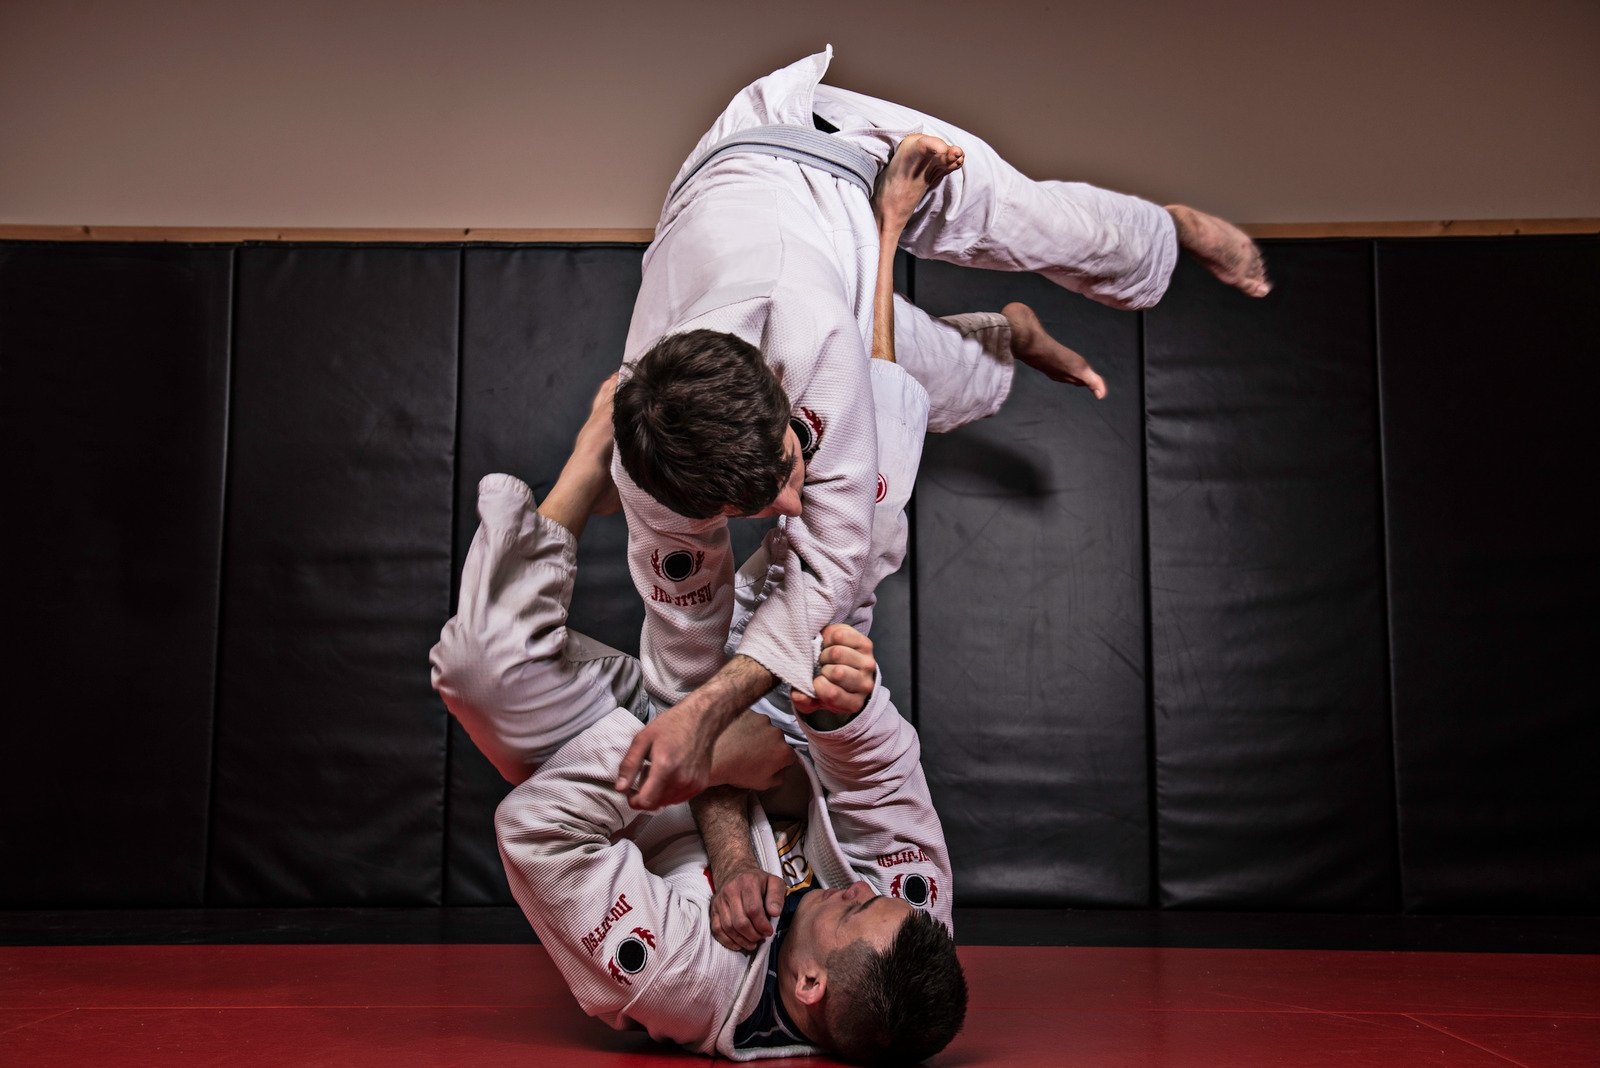
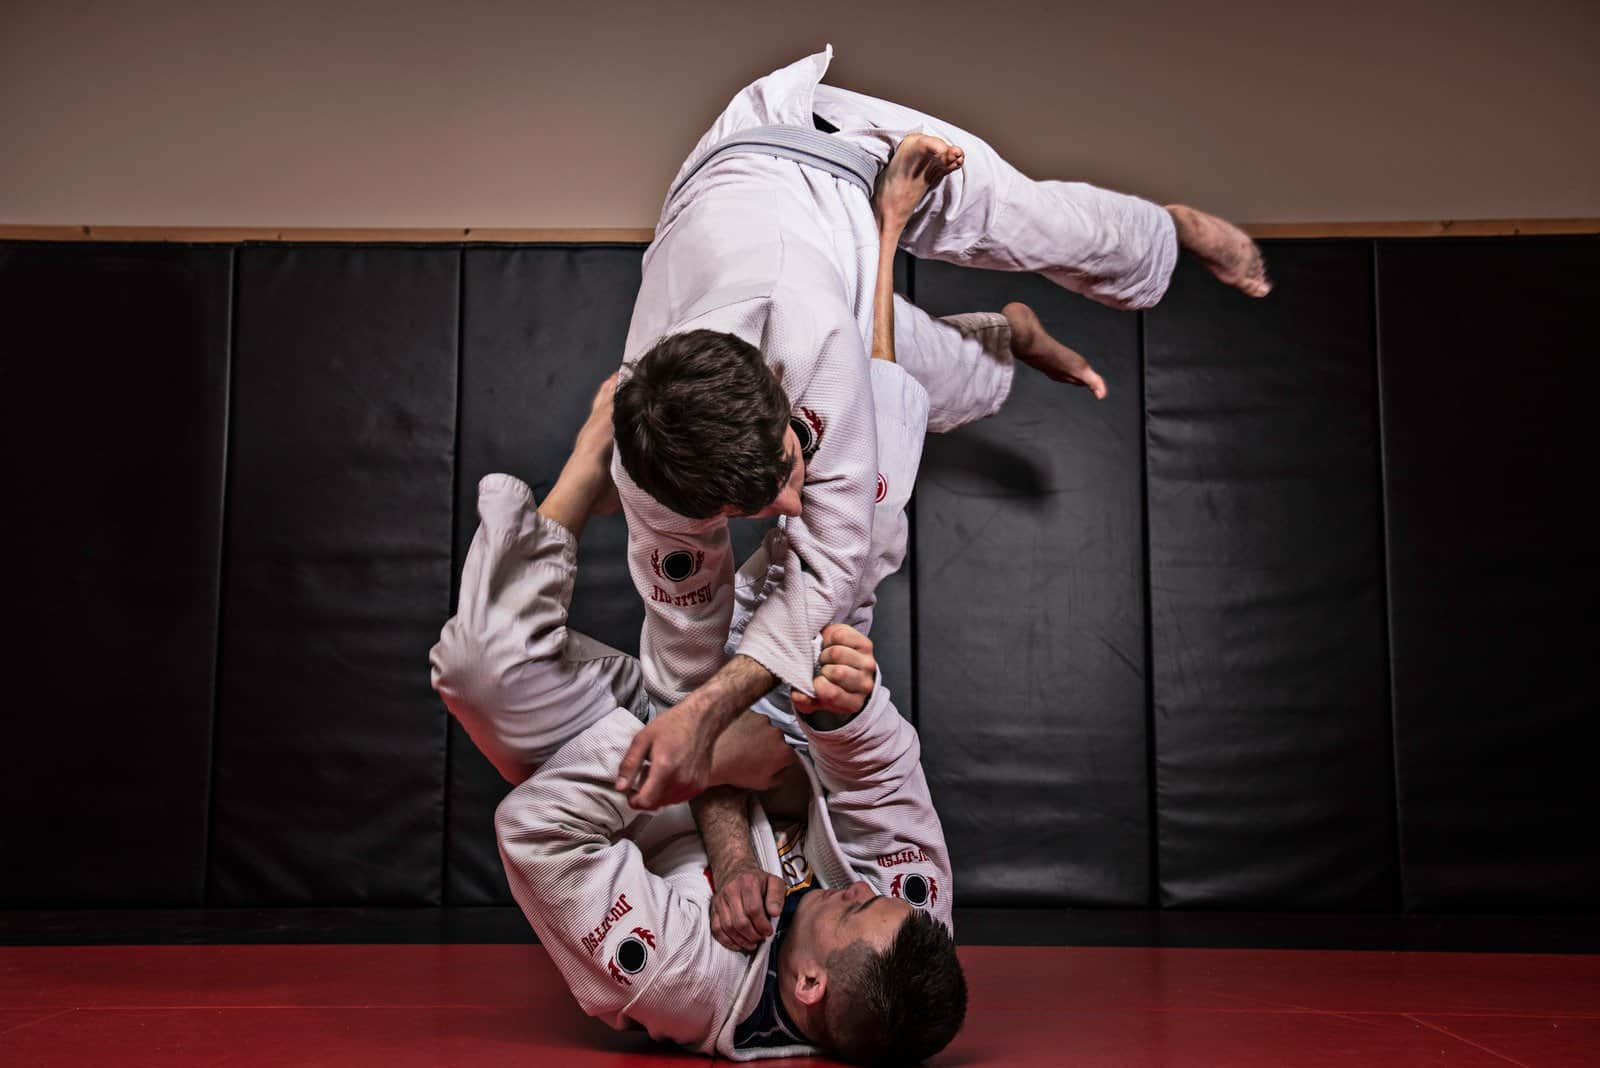
image updates

Changed region(s): [[0.3125, 0.8034, 0.4062, 0.8961], [0.4062, 0.8961, 0.4375, 0.927], [0.3438, 0.7107, 0.375, 0.7416]]

diff --git a/index.html b/index.html
@@ -88,7 +88,7 @@
         </div>
         <!--Right Col-->
         <div class="w-full md:w-1/2 py-6 text-center" style="padding-left: 24px !important; padding-right: 24px !important;">
-          <img class="w-full md:w-4/5 z-50 rounded-lg" style="border-radius: 180px;" src="images/hero.png" />
+          <img class="w-full md:w-4/5 z-50 rounded-lg" style="border-radius: 180px;" src="images/hero.jpg" />
         </div>
     </div>
     <div class="relative -mt-12 lg:-mt-24">
